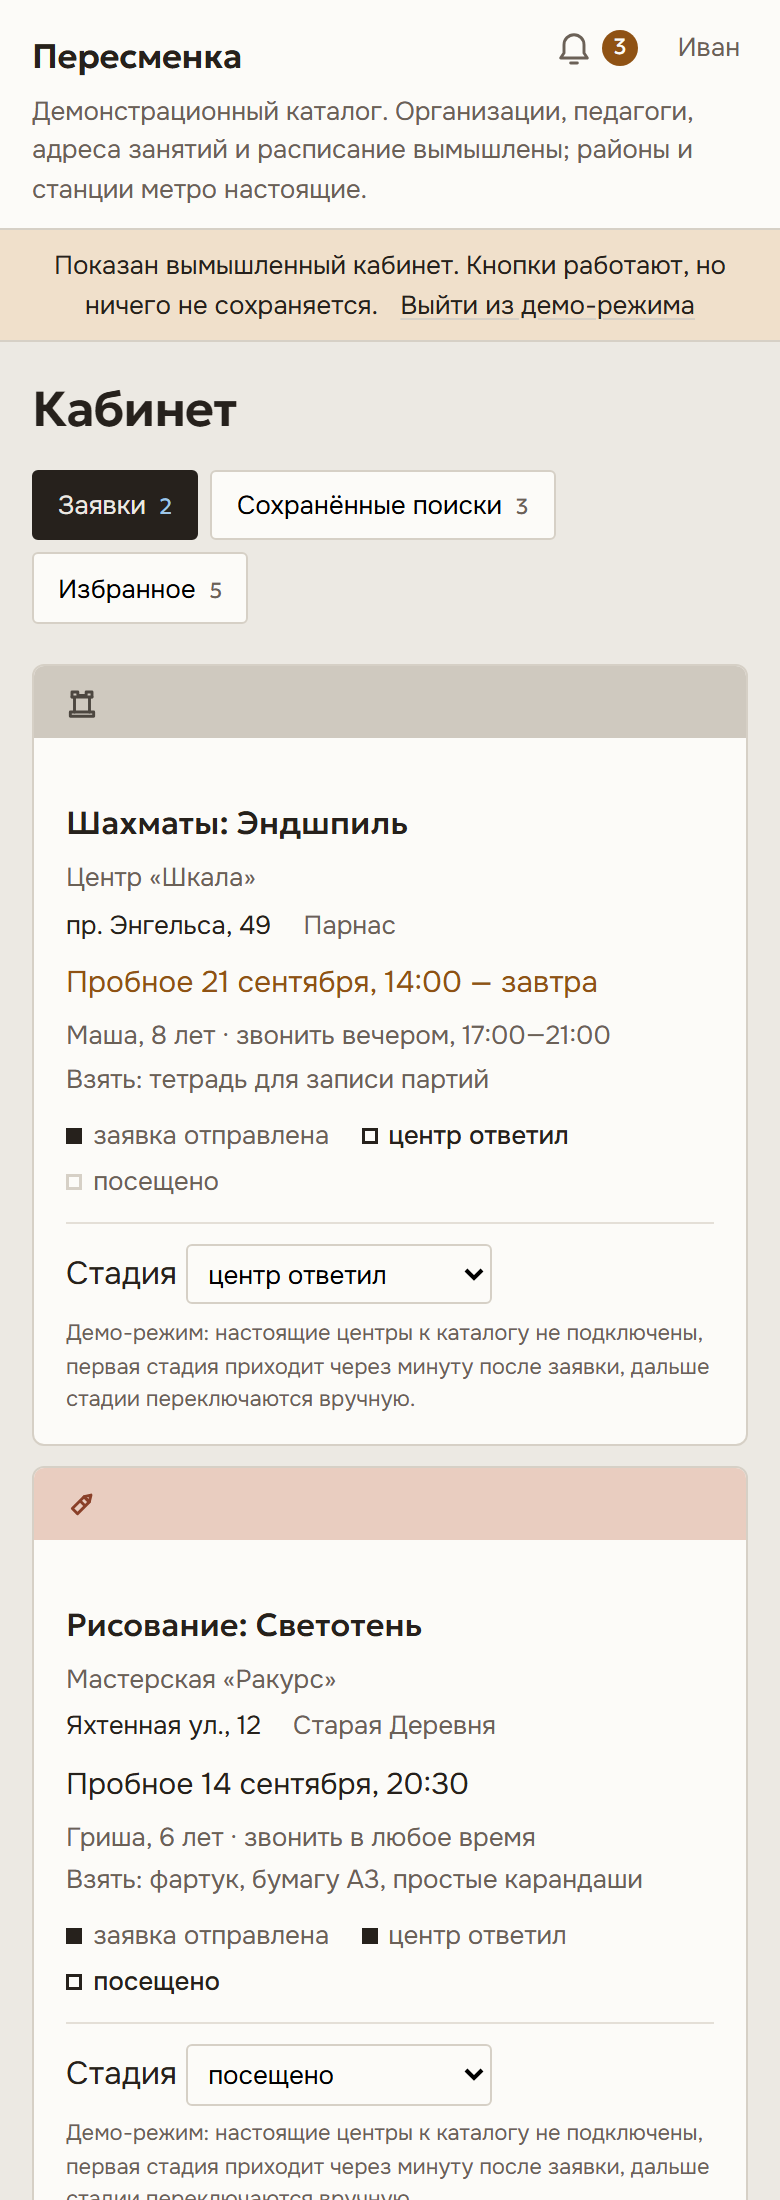
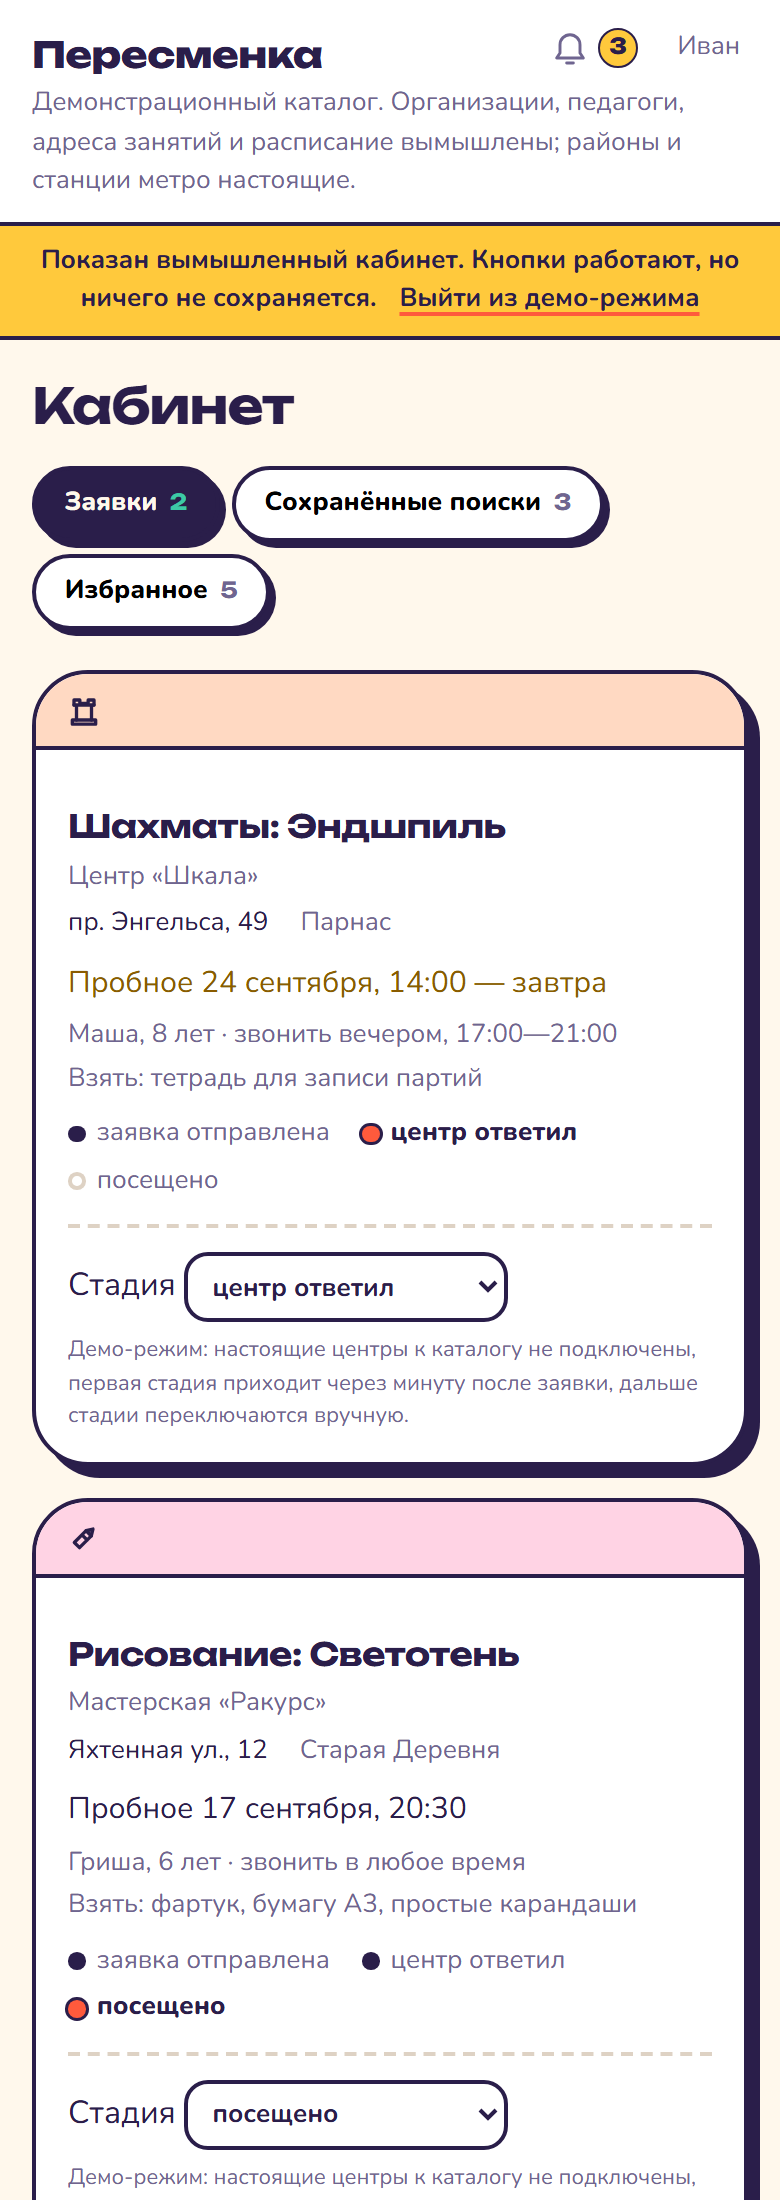
Все пятнадцать снимков заново: сайт выглядит иначе
Сняты с боевого. Первый кадр ловил недогруженный каталог — канал
отсюда до Vercel медленный, поэтому снимок теперь ждёт условия
(девять плиток на месте), а не фиксированных секунд.

Changed region(s): [[0.0, 0.0, 1.0, 1.0]]

diff --git a/README.md b/README.md
@@ -21,7 +21,7 @@
 
 | Двое детей в одно время | Статическая страница под запрос |
 | --- | --- |
-| ![Блок «обоих в одно время и в одном месте»](docs/screenshots/together-1440.png) | ![Шахматы для детей 8 лет у метро Спортивная](docs/screenshots/seo-1440.png) |
+| ![Блок «обоих в одно время и в одном месте»](docs/screenshots/together-1440.png) | ![Плавание для детей 8 лет у метро Спортивная](docs/screenshots/seo-1440.png) |
 
 | Карточка группы | Телефон, 390 px |
 | --- | --- |
